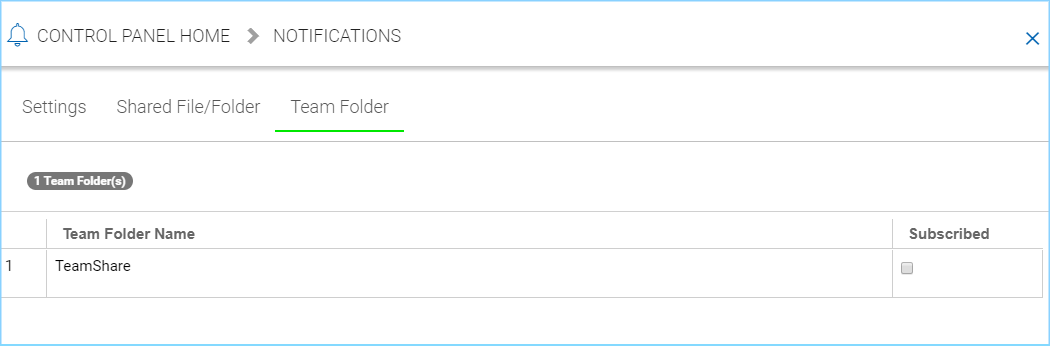
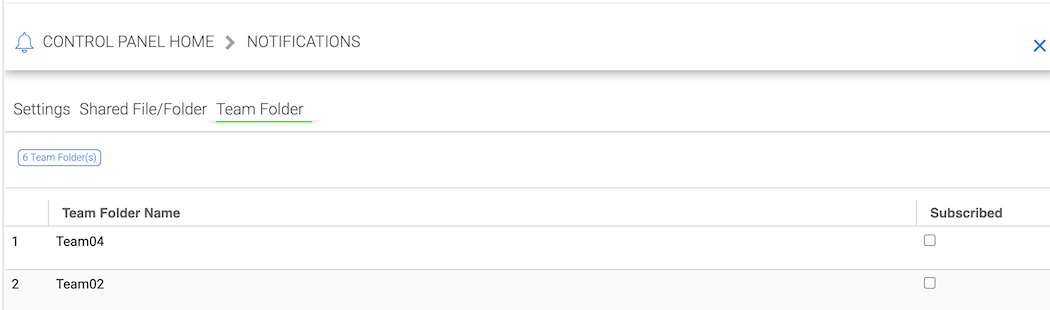
Update images for Control Panel Notifications

diff --git a/admin/source/chapter03.rst b/admin/source/chapter03.rst
@@ -481,10 +481,9 @@ The cluster administrator can use the notification manager to help the tenant se
 for the events subscribed.
 
 .. figure:: _static/2021newimage030.png
-.. figure:: _static/2021newimage031.png
     :align: center
     
-    NOTIFICATIONS SETTINGS    
+    NOTIFICATIONS    
 
 Settings 
 """"""""""""""""""""""
@@ -498,15 +497,18 @@ Settings
     
     When set, the system will send email notification daily about the events you are interested (Select below).
 
-    - File Changes	
-    - Audit Trace	
-    - Users approaching the storage quota limit	
+    - File Changes
+    - Audit Trace
+    - Users approaching the storage quota limit
+    - Notification threshold
     
-**Notify tenant admin when member's sync task failed**
+**Notify tenant admin when member's sync task failed or paused**
 
-**Notify tenant admin when member shared a folder**
+**Notify tenant admin when a member shares a folder**
 
-**Notify me when user account is locked out**
+**Notify me when a user account is locked out**
+
+**Do not show file change notifications on Windows and Mac client**
 
 **Send notification to these emails in addition to tenant admin's email (email;email2)**
 
@@ -518,16 +520,10 @@ Shared File/Folder
 .. figure:: _static/image_s5_12_20.png
     :align: center
 
-    TEAM FOLDER SUBSCRIPTION OPTION
+    SHARES SUBSCRIPTIONS
 
-Notification regarding the changed files and folders
-Team Folder - notification regarding changed files and folders
-Settings
+Notification regarding modified/downloaded shared files and folders.
 
-  Send Daily Notification Email
-  Notify tenant admin when member's sync task failed
-  Notify tenant admin when member shares a folder
-  Notify me when user account is locked out.
 
 Team Folder
 """"""""""""""""""""""
@@ -535,7 +531,7 @@ Team Folder
 .. figure:: _static/image_s5_12_30.png
     :align: center
 
-    NOTIFICATION SETTINGS
+    TEAM FOLDER SUBSCRIPTIONS
 
 Administrators can use this setting to receive notifications when changes occur in Team Folders.
 

diff --git a/user_web/source/chapter11.rst b/user_web/source/chapter11.rst
@@ -92,22 +92,21 @@ In the ‘Management Console’, click ‘User Manager’:
 
     WAYS TO ACCESS USER MANAGEMENT
 
-
 In ‘User Manager’ window, click the ‘+’ icon or "Add User" on the top left.
 
 .. figure:: _static/image_s12_1_3.png
     :align: center
-
+    
     CREATING OR MIGRATING USERS
+
 Add User
 ---------
 
 You can add users from within the User Manager or simply click the Add New User button to open the **"Sources of New User"** panel. In that panel you have several options: add a Native User, Batch Create Users, import Active Directory users and permissions, and if you have Server Agents actively connected, you will also see those servers listed here as well.
 
-
 .. figure:: _static/image_s8_2_3.png
     :align: center
-
+    
     ADDING USERS
 
 **Native User** 

diff --git a/user_web/source/chapter4.rst b/user_web/source/chapter4.rst
@@ -1,6 +1,6 @@
-#################
-Getting Started with the initial login
-#################
+###################################################
+Initial login
+###################################################
 
 To get started, point your web browser at the |prodname| server.
 
